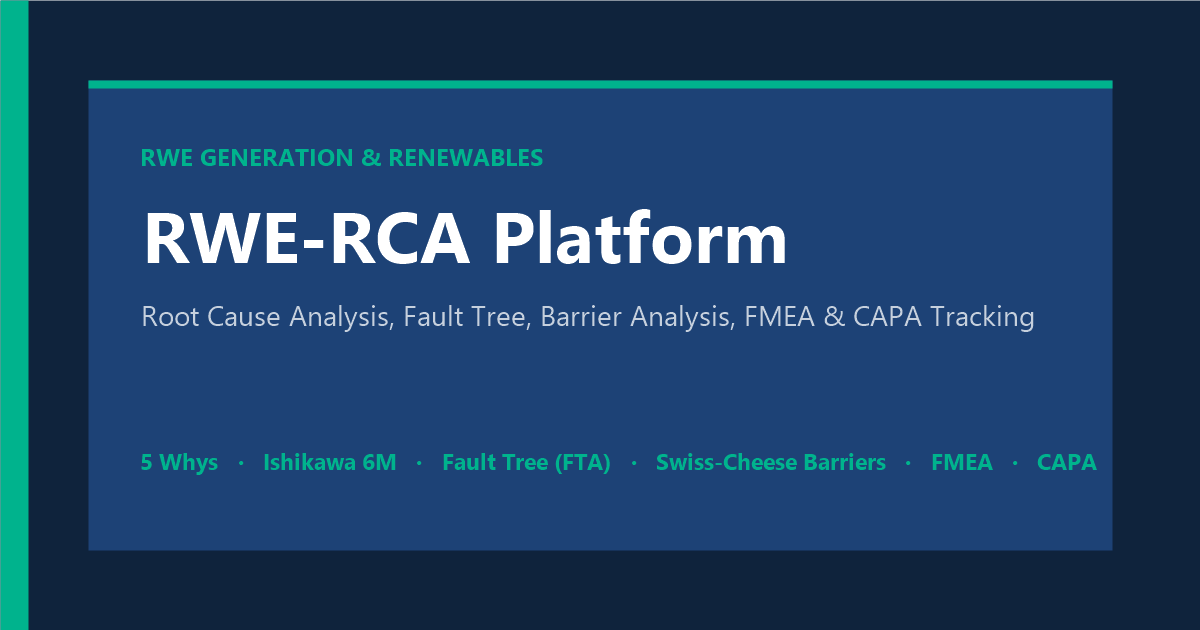
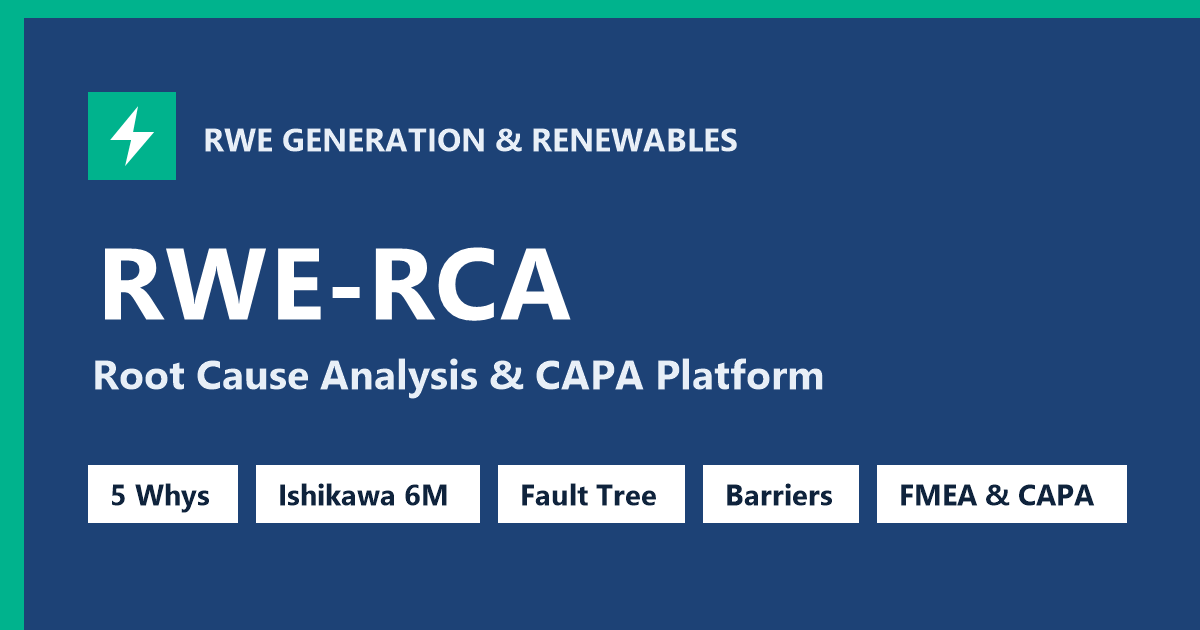
Replace og-preview.png with high-contrast bold typography for crisp WhatsApp thumbnail rendering

diff --git a/index.html b/index.html
@@ -10,14 +10,14 @@
 <meta property="og:title" content="RWE-RCA — Root Cause Analysis &amp; CAPA Platform">
 <meta property="og:description" content="Structured 5 Whys, Ishikawa 6M, Fault Tree (FTA), Swiss-Cheese Barrier Analysis, FMEA Risk &amp; CAPA tracking for RWE Generation &amp; Renewables.">
 <meta property="og:url" content="https://neilmross81-debug.github.io/gridguard-rca/">
-<meta property="og:image" content="https://neilmross81-debug.github.io/gridguard-rca/assets/og-preview.png">
+<meta property="og:image" content="https://neilmross81-debug.github.io/gridguard-rca/assets/og-preview.png?v=3">
 <meta property="og:image:type" content="image/png">
 <meta property="og:image:width" content="1200">
 <meta property="og:image:height" content="630">
 <meta name="twitter:card" content="summary_large_image">
 <meta name="twitter:title" content="RWE-RCA — Root Cause Analysis &amp; CAPA Platform">
 <meta name="twitter:description" content="Structured 5 Whys, Ishikawa 6M, Fault Tree (FTA), Swiss-Cheese Barrier Analysis, FMEA Risk &amp; CAPA tracking for RWE Generation &amp; Renewables.">
-<meta name="twitter:image" content="https://neilmross81-debug.github.io/gridguard-rca/assets/og-preview.png">
+<meta name="twitter:image" content="https://neilmross81-debug.github.io/gridguard-rca/assets/og-preview.png?v=3">
 <meta name="theme-color" content="#1D4276">
 <meta name="color-scheme" content="light">
 <link rel="icon" href="assets/favicon.svg?v=7" type="image/svg+xml">
